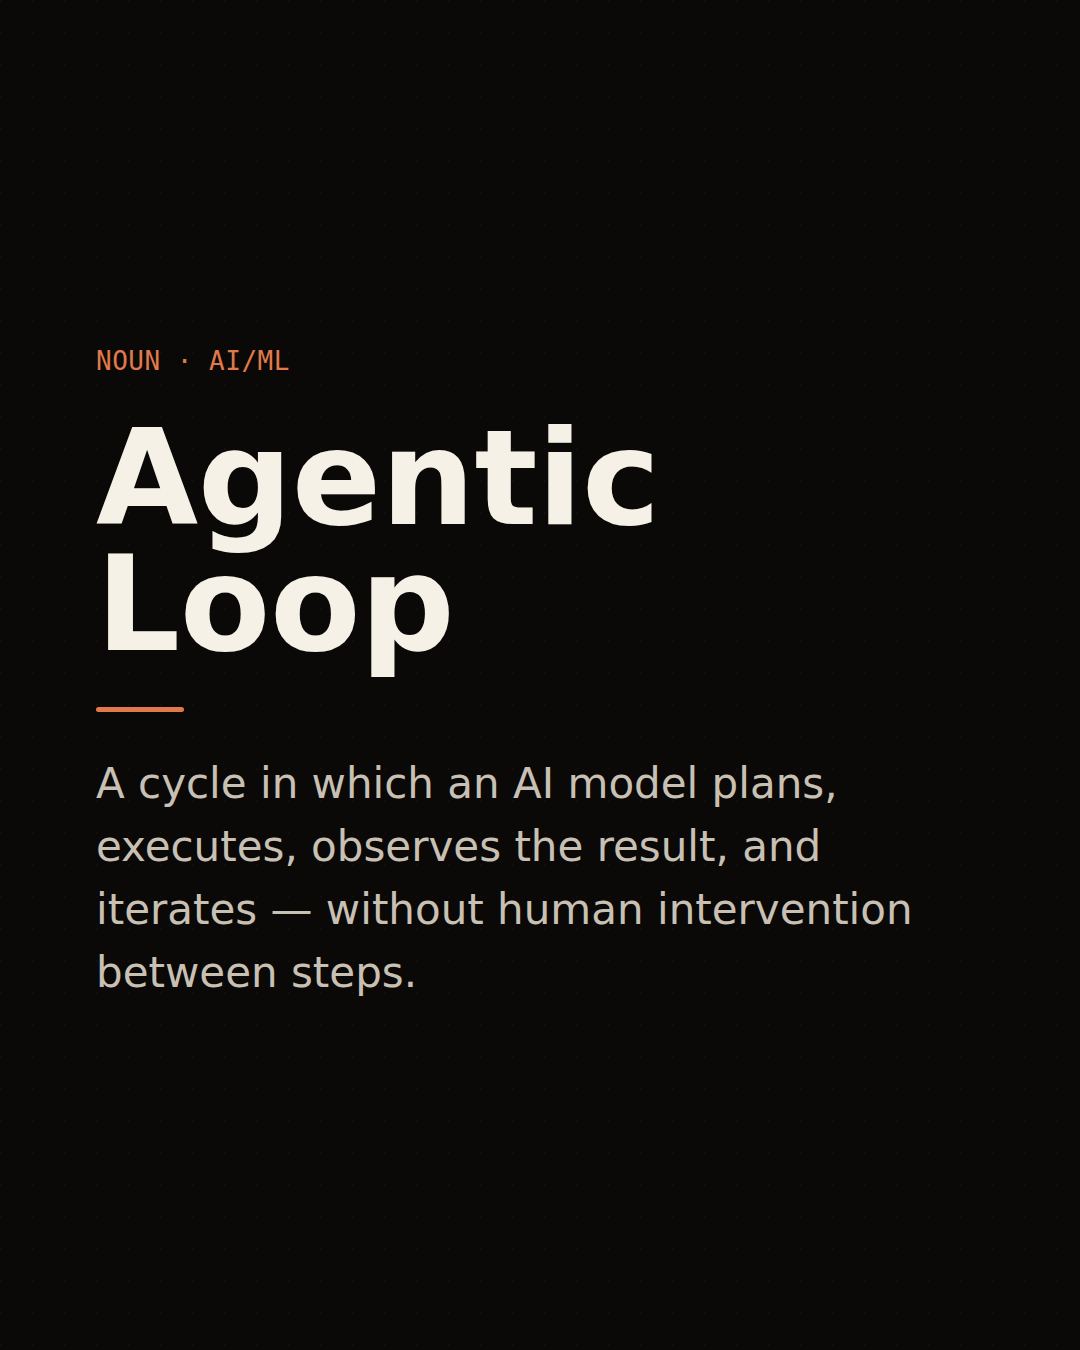
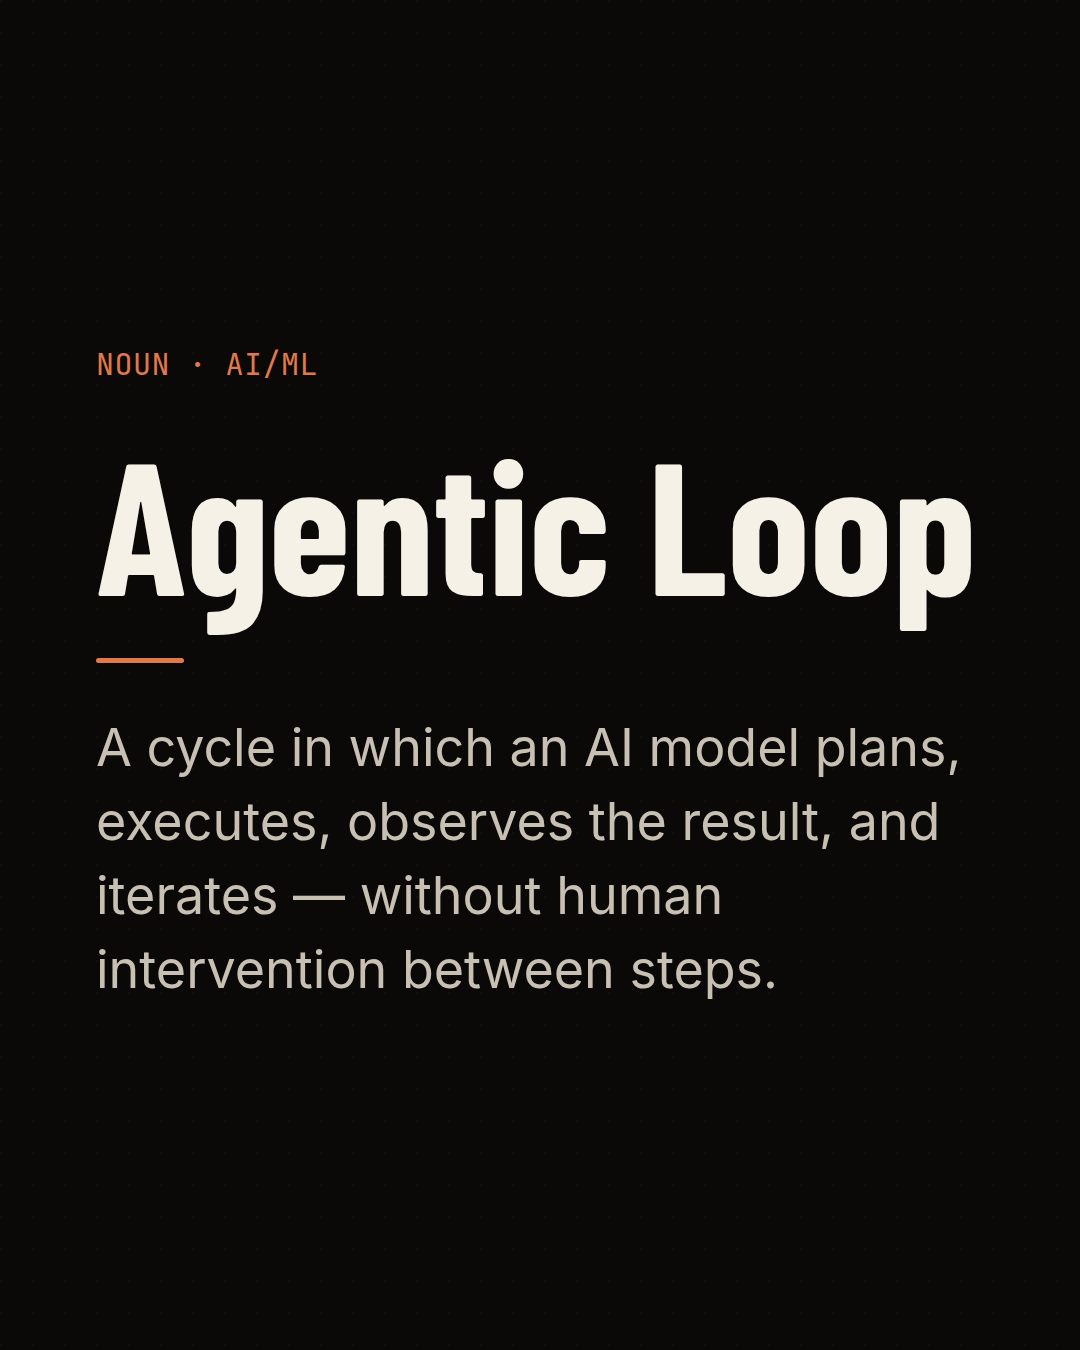
fix(templates): bigger type and fuller frame for social-portrait table, stat-number, definition, timeline

Changed region(s): [[0.0917, 0.3111, 0.9167, 0.7467], [0.1833, 0.2489, 0.3056, 0.28], [0.0917, 0.2489, 0.1528, 0.28]]

diff --git a/templates/table/social-portrait.css b/templates/table/social-portrait.css
@@ -2,7 +2,7 @@
  * tpl-table · social-portrait — 1080×1350 (4:5, Instagram portrait post)
  *
  * Hand-tuned, not a scale of portrait. The text box is 888×1142. Type is sized
- * for a phone feed (cells 30–32px, header 20px) and density steps down with the
+ * for a phone feed (cells 36px (30px at 6+ rows), header 22px) and density steps down with the
  * row count via `:has()`, so header + N rows fit under a two-line title instead
  * of being clipped by the wrapper's `overflow: hidden`. Cells break anywhere so
  * one long token wraps inside its column rather than widening the table.
@@ -40,7 +40,7 @@
 .tpl-root.tpl-table.tpl-table--social .tpl-table__title {
   flex: 0 0 auto;
   font-family: var(--s-font-display, 'Barlow Condensed', sans-serif);
-  font-size: 76px;
+  font-size: 84px;
   font-weight: var(--p-weight-600, 600);
   letter-spacing: var(--p-tracking-tight, -0.4px);
   line-height: 1.05;
@@ -76,7 +76,7 @@
 .tpl-root.tpl-table.tpl-table--social .tpl-table__table {
   width: 100%;
   border-collapse: collapse;
-  font-size: 32px;
+  font-size: 36px;
   font-variant-numeric: tabular-nums;
   color: var(--s-ink-secondary, #c9c0b4);
 }
@@ -86,10 +86,10 @@
 }
 
 .tpl-root.tpl-table.tpl-table--social .tpl-table__th {
-  padding: 22px 26px;
+  padding: 34px 30px;
   text-align: left;
   font-family: var(--s-font-mono, 'JetBrains Mono', monospace);
-  font-size: 20px;
+  font-size: 22px;
   font-weight: var(--p-weight-500, 500);
   letter-spacing: var(--p-tracking-wider, 0.8px);
   text-transform: uppercase;
@@ -107,7 +107,7 @@
 }
 
 .tpl-root.tpl-table.tpl-table--social .tpl-table__td {
-  padding: 26px;
+  padding: 40px 30px;
   line-height: 1.3;
   overflow-wrap: anywhere;
 }
@@ -117,23 +117,23 @@
   font-weight: var(--p-weight-500, 500);
 }
 
-/* Row-count-aware density: 6+, 9+ and 12+ rows. */
+/* Row-count-aware density: 6+, 8+ and 11+ rows. */
 .tpl-root.tpl-table.tpl-table--social .tpl-table__table:has(.tpl-table__tbody > .tpl-table__row:nth-child(6)) .tpl-table__td {
-  padding: 14px 26px;
-  font-size: 28px;
+  padding: 16px 30px;
+  font-size: 30px;
 }
 .tpl-root.tpl-table.tpl-table--social .tpl-table__table:has(.tpl-table__tbody > .tpl-table__row:nth-child(6)) .tpl-table__th {
-  padding: 16px 26px;
+  padding: 20px 30px;
 }
-.tpl-root.tpl-table.tpl-table--social .tpl-table__table:has(.tpl-table__tbody > .tpl-table__row:nth-child(9)) .tpl-table__td {
-  padding: 9px 26px;
-  font-size: 24px;
+.tpl-root.tpl-table.tpl-table--social .tpl-table__table:has(.tpl-table__tbody > .tpl-table__row:nth-child(8)) .tpl-table__td {
+  padding: 12px 30px;
+  font-size: 27px;
 }
-.tpl-root.tpl-table.tpl-table--social .tpl-table__table:has(.tpl-table__tbody > .tpl-table__row:nth-child(9)) .tpl-table__th {
-  padding: 14px 26px;
-  font-size: 18px;
+.tpl-root.tpl-table.tpl-table--social .tpl-table__table:has(.tpl-table__tbody > .tpl-table__row:nth-child(8)) .tpl-table__th {
+  padding: 16px 30px;
+  font-size: 20px;
 }
-.tpl-root.tpl-table.tpl-table--social .tpl-table__table:has(.tpl-table__tbody > .tpl-table__row:nth-child(12)) .tpl-table__td {
-  padding: 6px 26px;
-  font-size: 21px;
+.tpl-root.tpl-table.tpl-table--social .tpl-table__table:has(.tpl-table__tbody > .tpl-table__row:nth-child(11)) .tpl-table__td {
+  padding: 7px 30px;
+  font-size: 23px;
 }

diff --git a/templates/timeline/social-portrait.css b/templates/timeline/social-portrait.css
@@ -97,7 +97,7 @@
 
 .tpl-root.tpl-timeline.tpl-timeline--social .tpl-timeline__date {
   font-family: var(--s-font-mono, 'JetBrains Mono', monospace);
-  font-size: 24px;
+  font-size: 26px;
   letter-spacing: var(--p-tracking-wide, 0.5px);
   text-transform: uppercase;
   color: var(--s-ink-muted, #7d7568);
@@ -106,7 +106,7 @@
 
 .tpl-root.tpl-timeline.tpl-timeline--social .tpl-timeline__label {
   font-family: var(--s-font-display, 'Barlow Condensed', sans-serif);
-  font-size: 54px;
+  font-size: 58px;
   font-weight: var(--p-weight-600, 600);
   letter-spacing: var(--p-tracking-tight, -0.4px);
   color: var(--s-ink-primary, #f6f1e7);
@@ -116,7 +116,7 @@
 }
 
 .tpl-root.tpl-timeline.tpl-timeline--social .tpl-timeline__note {
-  font-size: 30px;
+  font-size: 34px;
   color: var(--s-ink-muted, #7d7568);
   line-height: 1.35;
   margin: 0;
@@ -125,11 +125,11 @@
 
 /* Density tiers by milestone count (the rail line is child 1, so nth-child(7)
    is the 6th milestone and nth-child(9) the 8th). */
-.tpl-root.tpl-timeline.tpl-timeline--social .tpl-timeline__track:has(.tpl-timeline__node:nth-child(7)) .tpl-timeline__label { font-size: 44px; }
-.tpl-root.tpl-timeline.tpl-timeline--social .tpl-timeline__track:has(.tpl-timeline__node:nth-child(7)) .tpl-timeline__note { font-size: 26px; }
-.tpl-root.tpl-timeline.tpl-timeline--social .tpl-timeline__track:has(.tpl-timeline__node:nth-child(7)) .tpl-timeline__date { font-size: 20px; }
+.tpl-root.tpl-timeline.tpl-timeline--social .tpl-timeline__track:has(.tpl-timeline__node:nth-child(7)) .tpl-timeline__label { font-size: 46px; }
+.tpl-root.tpl-timeline.tpl-timeline--social .tpl-timeline__track:has(.tpl-timeline__node:nth-child(7)) .tpl-timeline__note { font-size: 28px; }
+.tpl-root.tpl-timeline.tpl-timeline--social .tpl-timeline__track:has(.tpl-timeline__node:nth-child(7)) .tpl-timeline__date { font-size: 22px; }
 .tpl-root.tpl-timeline.tpl-timeline--social .tpl-timeline__track:has(.tpl-timeline__node:nth-child(7)) .tpl-timeline__content { gap: 6px; }
-.tpl-root.tpl-timeline.tpl-timeline--social .tpl-timeline__track:has(.tpl-timeline__node:nth-child(9)) .tpl-timeline__label { font-size: 36px; }
-.tpl-root.tpl-timeline.tpl-timeline--social .tpl-timeline__track:has(.tpl-timeline__node:nth-child(9)) .tpl-timeline__note { font-size: 22px; line-height: 1.25; }
-.tpl-root.tpl-timeline.tpl-timeline--social .tpl-timeline__track:has(.tpl-timeline__node:nth-child(9)) .tpl-timeline__date { font-size: 18px; }
+.tpl-root.tpl-timeline.tpl-timeline--social .tpl-timeline__track:has(.tpl-timeline__node:nth-child(9)) .tpl-timeline__label { font-size: 38px; }
+.tpl-root.tpl-timeline.tpl-timeline--social .tpl-timeline__track:has(.tpl-timeline__node:nth-child(9)) .tpl-timeline__note { font-size: 24px; line-height: 1.25; }
+.tpl-root.tpl-timeline.tpl-timeline--social .tpl-timeline__track:has(.tpl-timeline__node:nth-child(9)) .tpl-timeline__date { font-size: 20px; }
 .tpl-root.tpl-timeline.tpl-timeline--social .tpl-timeline__track:has(.tpl-timeline__node:nth-child(9)) .tpl-timeline__content { gap: 3px; }

diff --git a/templates/definition/social-portrait.css b/templates/definition/social-portrait.css
@@ -1,9 +1,9 @@
 /*
  * tpl-definition · social-portrait — 1080×1350 (4:5, Instagram portrait post)
  *
- * Hand-tuned. Term 132px in the 888px box (two lines for a long term), the
- * definition 42px at 1.5 — about 40 characters a line, readable on a phone and
- * good for ~9 lines before the 1142px text box is full.
+ * Hand-tuned. Term 188px in the 888px box (two lines for a long term), the
+ * definition 52px at 1.42 — about 27 characters a line, readable on a phone and
+ * good for ~7 lines before the 1142px text box is full.
  */
 
 .tpl-root.tpl-definition.tpl-definition--social {
@@ -38,12 +38,12 @@
   width: 100%;
   display: flex;
   flex-direction: column;
-  gap: 40px;
+  gap: 48px;
 }
 
 .tpl-root.tpl-definition.tpl-definition--social .tpl-definition__eyebrow {
   font-family: var(--s-font-mono, 'JetBrains Mono', monospace);
-  font-size: 26px;
+  font-size: 30px;
   letter-spacing: var(--p-tracking-wide, 0.5px);
   text-transform: uppercase;
   color: var(--s-brand-solid, #E07A4A);
@@ -52,7 +52,7 @@
 
 .tpl-root.tpl-definition.tpl-definition--social .tpl-definition__term {
   font-family: var(--s-font-display, 'Barlow Condensed', sans-serif);
-  font-size: 132px;
+  font-size: 188px;
   font-weight: var(--p-weight-700, 700);
   letter-spacing: var(--p-tracking-tight, -0.4px);
   color: var(--s-ink-primary, #f6f1e7);
@@ -70,8 +70,8 @@
 }
 
 .tpl-root.tpl-definition.tpl-definition--social .tpl-definition__def {
-  font-size: 42px;
-  line-height: 1.5;
+  font-size: 52px;
+  line-height: 1.42;
   color: var(--s-ink-secondary, #c9c0b4);
   margin: 0;
   overflow-wrap: break-word;

diff --git a/templates/stat-number/social-portrait.css b/templates/stat-number/social-portrait.css
@@ -41,14 +41,14 @@
   flex-direction: column;
   align-items: center;
   text-align: center;
-  gap: 20px;
+  gap: 28px;
   flex: none;
   width: 100%;
 }
 
 .tpl-root.tpl-stat-number.tpl-stat-number--social .tpl-stat-number__eyebrow {
   font-family: var(--s-font-mono, 'JetBrains Mono', monospace);
-  font-size: 28px;
+  font-size: 34px;
   letter-spacing: var(--p-tracking-wider, 0.8px);
   text-transform: uppercase;
   color: var(--s-ink-muted, #7d7568);
@@ -68,18 +68,18 @@
 }
 
 .tpl-root.tpl-stat-number.tpl-stat-number--social .tpl-stat-number__label {
-  font-size: 56px;
-  line-height: 1.3;
+  font-size: 74px;
+  line-height: 1.22;
   color: var(--s-ink-secondary, #c9c0b4);
-  margin: 20px 0 0;
-  max-width: 22ch;
+  margin: 28px 0 0;
+  max-width: 20ch;
   overflow-wrap: break-word;
   text-wrap: balance;
 }
 
 .tpl-root.tpl-stat-number.tpl-stat-number--social .tpl-stat-number__source {
   font-family: var(--s-font-mono, 'JetBrains Mono', monospace);
-  font-size: 26px;
+  font-size: 30px;
   letter-spacing: var(--p-tracking-wide, 0.5px);
   color: var(--s-ink-muted, #7d7568);
   overflow-wrap: break-word;
